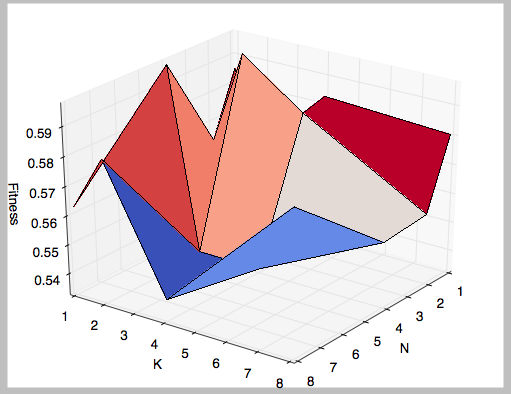
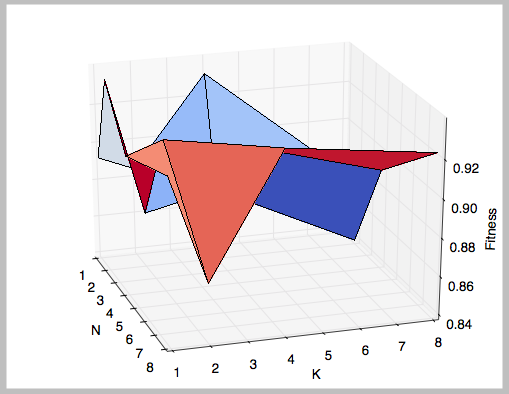
Remove old tuning data and upload michigan tuning plots

diff --git a/report.html b/report.html
@@ -47,7 +47,7 @@ The 3D graphs depict how the fitness after 25000 generations varies with N and K
 <td>328&times;189 pixels<br><img src="michigan.png"></td>
 <td>P=100, N=1, K=1<br><img src="michigan/michigan_anim.png"></td>
 <td><img src="michigan_fitness.png"></td>
-<td><img width=400 height=400 src="michigan_tuning.png"><br>N=4, K=1 gave the best result</td>
+<td><img width=400 height=400 src="michigan_tuning.png"><br>N=2, K=1 gave the best result</td>
 </tr>
 
 <tr>
